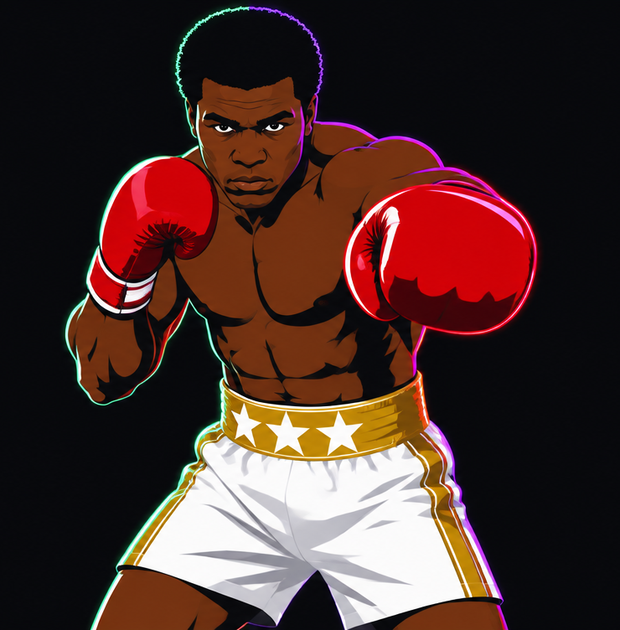
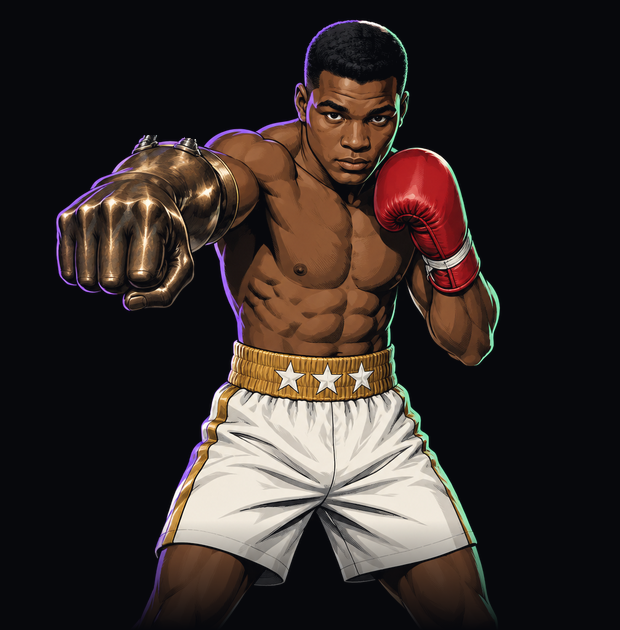
feat(punch): redraw faceplate boxer as a Detroit tribute with bronze fist arm
Stylized illustration, lead arm modeled on the Joe Louis Fist monument.
MPC activity animation retargeted to the new fist (mask, crop, meter
position, leftward motion). Old art kept as faceplate-bg-old-boxer.png.

diff --git a/plugins/punch/mpc/make_art.py b/plugins/punch/mpc/make_art.py
@@ -7,8 +7,8 @@ Mapping, after the OP-1 mllp screen (display/mllp.svg):
   punch.png  PUNCH   burst of rays growing from a point (OP-1: purple rays by the glove, mapping designed)
   rounds.png ROUNDS  ladder of bars filling up (OP-1: ten green bars, recovered; here 24 cells for 24 rounds)
   power.png  POWER   shock arcs travelling out from the glove (designed, the OP-1 shows red glove art)
-  act.png    signal  forward glove extends on transients and returns to guard (designed)
-  bg.png     MPC faceplate with the forward glove removed, so it can move cleanly
+  act.png    signal  forward fist extends on transients and returns to guard (designed)
+  bg.png     MPC faceplate with the forward fist removed, so it can move cleanly
 """
 import math
 import os
@@ -180,10 +180,10 @@ def power_frames(n=33):
 # ACT: front glove translation. frame = knob step * 8 + transient step.
 def glove_layers():
     source = Image.open(os.path.join(HERE, "../design/art/faceplate-bg-1280x630.png")).convert("RGB")
-    # Trace the forward glove and cuff. The shoulder stays on the faceplate.
-    outline = [(676, 185), (704, 169), (744, 171), (782, 178), (827, 192),
-               (863, 216), (876, 253), (867, 298), (841, 329), (794, 340),
-               (748, 333), (704, 309), (675, 280), (661, 242), (663, 210)]
+    # Trace the forward fist and cuff. The shoulder stays on the faceplate.
+    outline = [(386, 218), (398, 192), (438, 172), (478, 158), (520, 146), (556, 156),
+               (570, 190), (562, 232), (532, 256), (524, 292), (490, 312), (452, 306),
+               (418, 286), (392, 256)]
     mask = Image.new("L", source.size, 0)
     ImageDraw.Draw(mask).polygon(outline, fill=255)
     glove = source.convert("RGBA")
@@ -191,7 +191,7 @@ def glove_layers():
     clean = cv2.inpaint(np.asarray(source), np.asarray(mask), 11, cv2.INPAINT_TELEA)
     bg = Image.fromarray(clean)
     bg.save(os.path.join(OUT, "bg.png"), optimize=True)
-    return glove.crop((652, 165, 892, 355))
+    return glove.crop((358, 120, 598, 310))
 
 
 def act_frames():
@@ -203,7 +203,7 @@ def act_frames():
             # The lead knob occupies the high three frame bits; only the onset level moves the arm.
             shift = round(12 * (l / 7.0) ** 0.75)
             frame = Image.new("RGBA", (w, h), (0, 0, 0, 0))
-            frame.alpha_composite(glove, (shift, -shift // 5))
+            frame.alpha_composite(glove, (12 - shift, shift // 5))
             out.append(frame)
     return out
 
